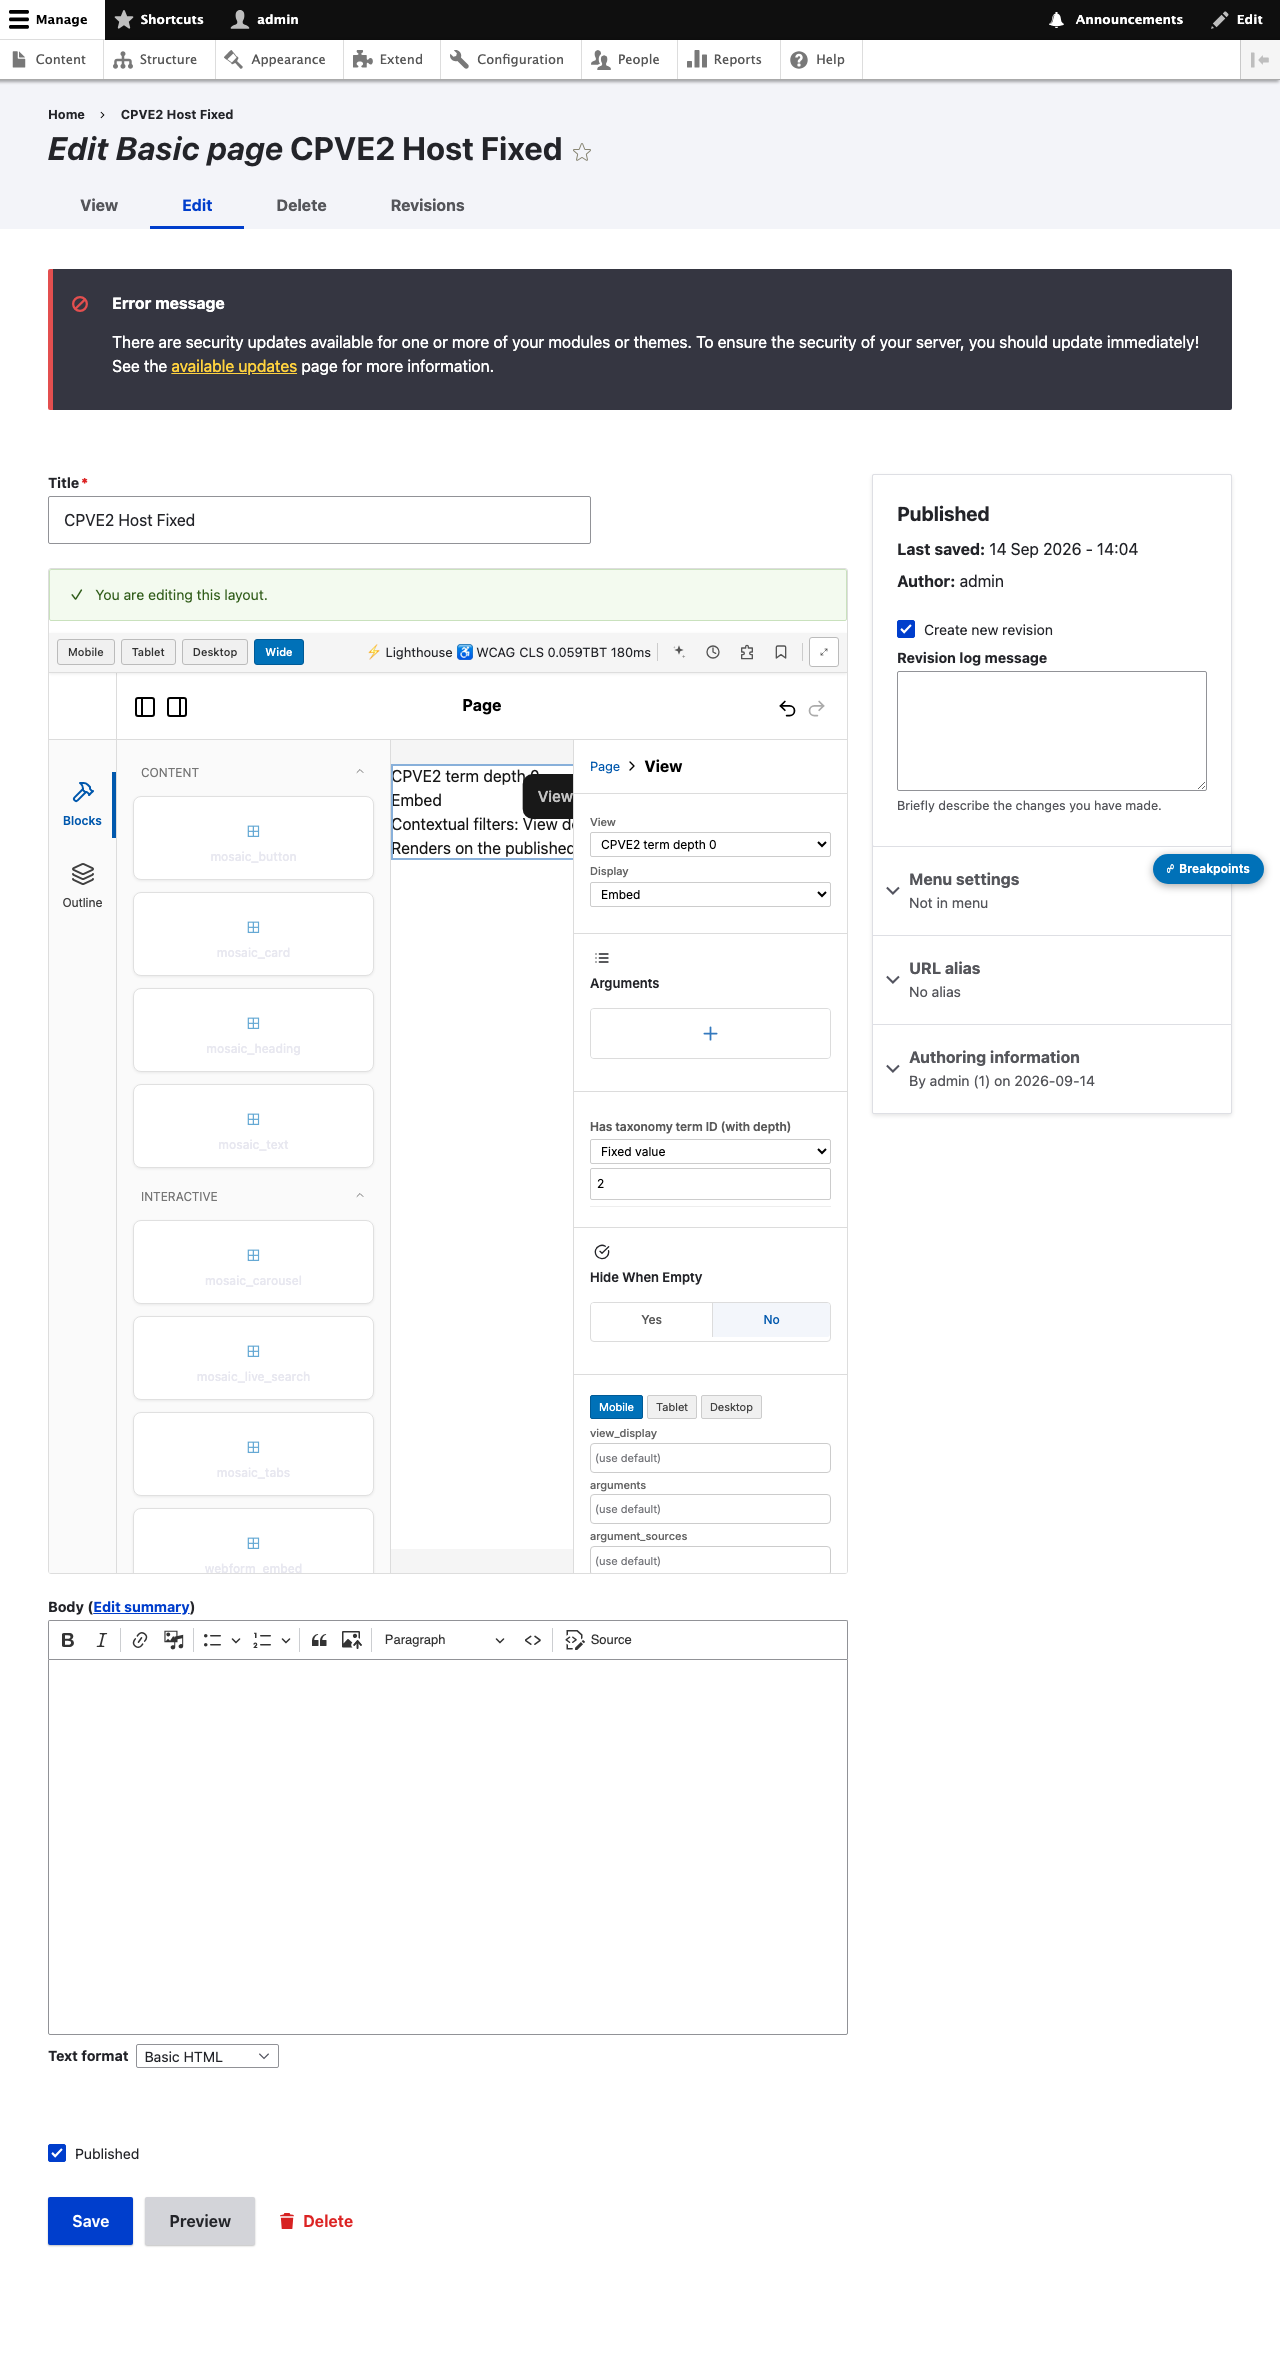
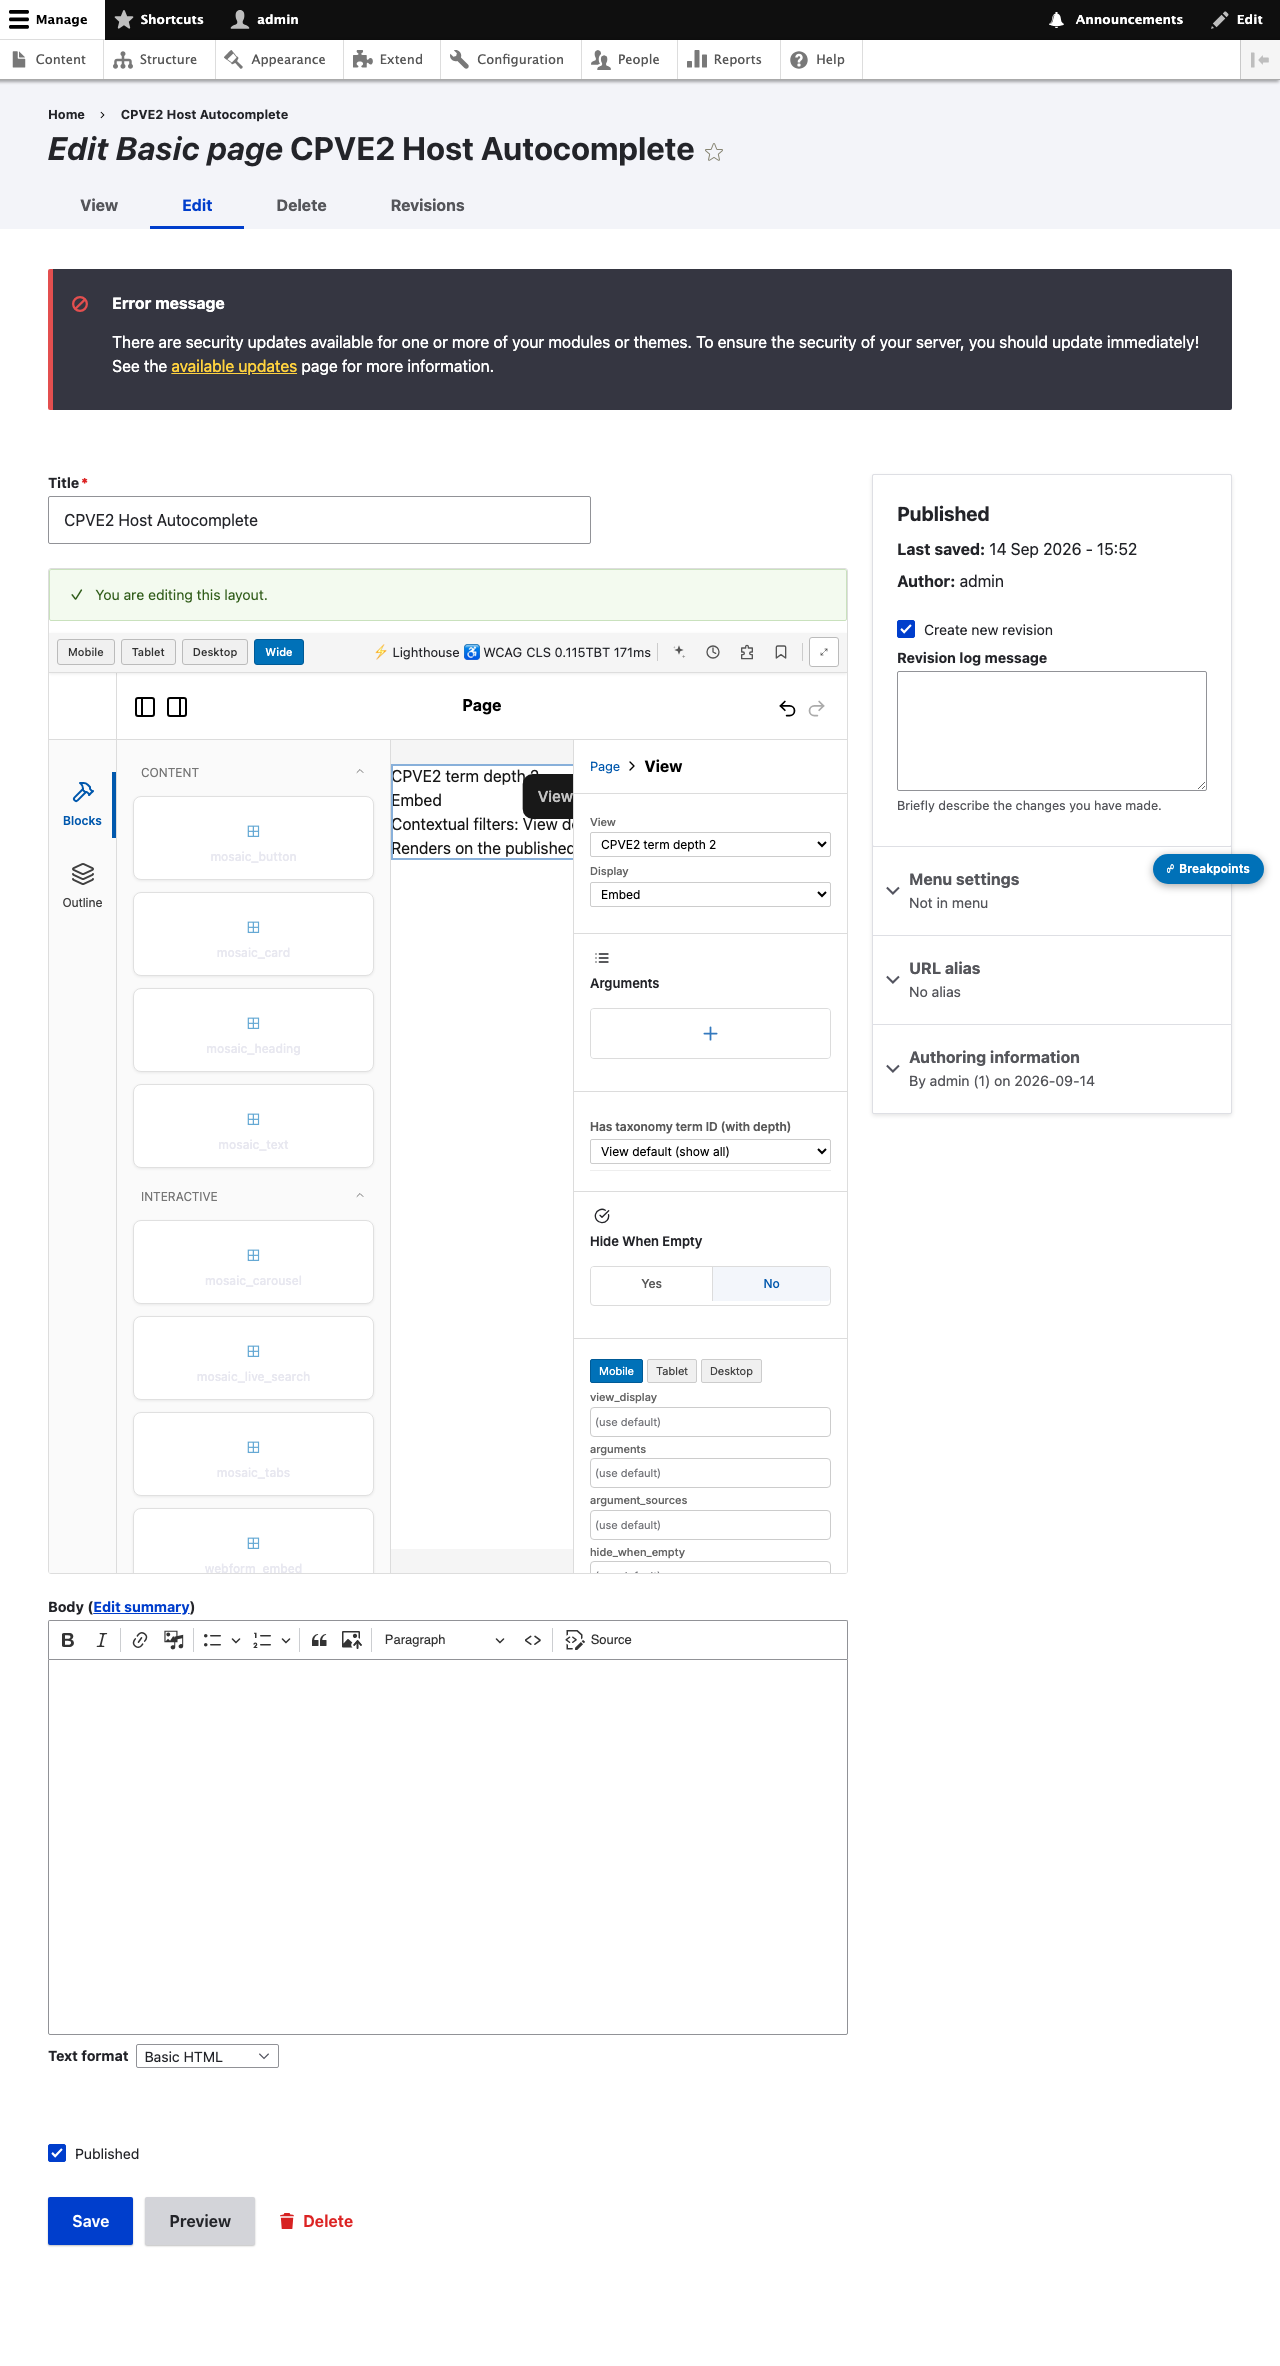
WALK-CATCH #57 FIXED: autocomplete keystroke-drop (debounce+abort isolation)
W1 witness (live render-count): usePuck panel re-rendered 24x/load + froze; per-key
un-debounced fetch. W2 fix: EntityAutocomplete local state + debounced (~280ms) abortable
lookup + commit only on pick. W3 RED->GREEN: Vitest 10/10 (fast type -> full string, 1
debounced fetch, no commit until pick) + e2e frame 02 real-pointer 'Citrus' (no dropped
keys). Witness-scan ledgered (url_param per-key commit, usePuck storm). Film 8/8, Vitest
517/1-preexisting, tsc clean. Add-block delta: none (33). STOP for reviewer frame audit.

Changed region(s): [[0.4375, 0.4937, 0.5938, 0.6788], [0.375, 0.0617, 0.5312, 0.0926], [0.3438, 0.2468, 0.375, 0.2777]]

diff --git a/reports/REPORT-CP-VE2.md b/reports/REPORT-CP-VE2.md
@@ -312,6 +312,66 @@ param-swap · 06 depth · 07 exclude) carry PASSING geometry oracles; 05a/05b cu
 `reports/WALK-CP-VE2.md` — 10 steps with exact nodes + exact expects (5 runtime geometry steps
 on hosts 977–981, 5 authoring-panel steps), each backed by a film frame.
 
+---
+
+# WALK-CATCH #57 — fixed-value autocomplete drops keystrokes (PROBE → FIX)
+
+Arun's walk: steps 1–6 + 8 PASS (step 6 label = Views' own handler title, ACT-2 polish ledgered;
+step 4 CPVE2-linked rows EXPECTED); steps 9–10 NOT RUN (reviewer re-issuing). **#57 (tally → 57):**
+the fixed-value entity autocomplete drops keystrokes ("cit" fast → "ct"), the right panel freezes,
+one key at a time. Ship #37 FROZEN; the fix accumulates in the uncommitted set.
+
+## W1 — WITNESS (live, render-count evidence — not theory)
+Instrumented `EntityAutocomplete` (render/mount/unmount/fetch) + `MosaicViewsArgumentsPanel` (render),
+rebuilt the builder, drove host 977's builder e2e:
+```
+» [WC57][Panel render]   ×24     (just LOAD + selecting the source — no typing yet)
+WC57 evaluate err: page.evaluate: Target page ... has been closed   (0 keystrokes landed)
+EA renders=0 mounts=0 fetches=0   (page froze before the autocomplete could be typed into)
+```
+Mechanism (witnessed): `MosaicViewsArgumentsPanel` calls `usePuck()`, which subscribes to the FULL
+Puck state, so the panel re-renders **24×** across a single load+select — a render storm — and the
+frame freezes on interaction. Compounding it, `EntityAutocomplete`'s lookup fired a network fetch on
+EVERY keystroke (code-confirmed: `useEffect([term])` with no debounce/abort). Under fast typing the
+per-key fetch + re-render load makes the controlled input drop characters.
+
+## W2 — FIX (isolation contract, autocomplete family)
+`EntityAutocomplete` (`js/src/builder/fields/MosaicViewsArgumentsField.tsx`): typing updates ONLY
+local `term` state (no Puck commit → no panel/canvas re-render while typing; commit happens on pick).
+The lookup is now **debounced** (~280 ms after typing pauses) and **abortable** (`AbortController` —
+each keystroke aborts the in-flight request), so fast typing fires ONE fetch, not one per key, and the
+input never drops characters.
+
+### Witness-scan of sibling per-key-commit inputs (LEDGERED, not fixed this charter)
+- `url_param` text input — `value={spec.param}` + `onChange → onPatch → Puck commit` on EVERY
+  keystroke (a controlled-input-bound-to-Puck anti-pattern; same freeze class). → ledgered.
+- `MosaicViewsArgumentsPanel` `usePuck()` render storm (24 renders/load) — a Panel-level perf issue
+  independent of the autocomplete. → ledgered.
+- `page_field` is a `<select>` (commit on choose, not per-key) — fine.
+
+## W3 — RED → GREEN
+**Vitest** (`viewsFields.test.tsx`, 10/10): fast per-key typing "c"→"ci"→"cit" → the input reads the
+FULL "cit"; `expect(entityAutocompleteFetches).toBe(0)` immediately (debounce pending — the RED
+assertion; pre-fix fired 3 per-key fetches) → exactly **1** debounced fetch after the pause; **no Puck
+commit** while typing; picking a suggestion commits exactly once.
+**e2e** (cp-ve2 film, frame 02): real-pointer `pressSequentially('Citrus', {delay:50})` on the live
+builder → `inputValue === 'Citrus'` (no dropped keys), suggestion appears, panel stays interactive —
+frame `02-fixed-autocomplete.png` finally earns its place in the album.
+
+## W4 — Gates + add-block delta
+| Gate | Result |
+|---|---|
+| Vitest — panel | **10/10** (WC57 debounce cell added) |
+| Vitest — full suite | **517 / 1** (the 1 is pre-existing B-101) |
+| tsc — my file | clean (only pre-existing `dsdShadow.ts`) |
+| e2e — cp-ve2 film | **8/8** (frame 02 now real-pointer fast-typed; all geometry oracles green) |
+| dist | builder rebuilt (FE unaffected — the fix is builder-only); instrumentation removed |
+
+**SHIP-37 add-block delta: NONE.** The WC57 fix modified only files ALREADY in the consolidated add
+block — `js/src/builder/fields/MosaicViewsArgumentsField.tsx`, `.../__tests__/viewsFields.test.tsx`,
+`js/dist/builder.js`. No new tracked files. The film spec (`js/e2e/`) is gitignored; the scratch
+host 982 + the `cpve2_termd2` entity-validator are dev-site content only. Ship #37 count stays **33**.
+
 ## Gates (N leg)
 | Gate | Result |
 |---|---|

diff --git a/ledger-live/TODO.md b/ledger-live/TODO.md
@@ -12564,3 +12564,40 @@ blast radius 2 renderer Unit tests re-oracled. N3 walk list reports/WALK-CP-VE2.
 Vitest 516/1-preexisting-B101, film 8/8 green, PHPStan (new) clean, PHPCS 0. **STOP — reviewer audits
 frames, Arun walks representatives (WALK-CP-VE2), ceremony. NOT a tag** (road: CP-VE3 → ACT 2 → Wave
 D-0+D/F → Wave G → dev push → Arun soak → tag). Uncommitted on ship #36 (44a09c8), read-only mosaic git.
+
+### ARUN WALK (2026-09-14) — CP-VE2 representatives (verbatim)
+Steps 1-6 + 8 PASS. Step 6 = PASS (argument label is Views' own handler title) — POLISH CANDIDATE
+ledgered for ACT 2: friendlier fallback when no custom admin label. Step 4 linked CPVE2-prefixed rows
+ruled EXPECTED. Steps 9-10 NOT RUN (walk-step clarity — reviewer re-issuing rewritten 9-10).
+**WALK-CATCH #57 FAIL (tally → 57):** fixed-value entity autocomplete DROPS KEYSTROKES ("cit" typed
+fast → "ct"), right panel FREEZES, one key at a time — the whole mosaic frame appears to re-render per
+keystroke. Ship #37 FROZEN; fix accumulates in the uncommitted set. Charter W1 witness → W2 isolation-
+contract fix (local state + debounced abortable fetch + Puck commit only on pick + zero re-render while
+typing) → W3 RED→GREEN (Vitest fast-typing + e2e real-pointer, film frame 02) → W4 gates + dist + album
++ add-block delta + push. STOP after push.
+
+### ACT 2 POLISH CANDIDATE (ledgered, not this charter) — argument label fallback
+Step-6 ruling: the argument-source row label falls back to Views' own handler admin title when no
+custom admin label is set. Friendlier fallback (e.g. humanized field name) is an ACT 2 polish item.
+
+### WALK-CATCH #57 FIXED 2026-09-14 — report: reports/REPORT-CP-VE2.md (WC57 section), album cp-ve2 frame 02
+W1 WITNESS (live, render-count): MosaicViewsArgumentsPanel (usePuck) re-rendered **24×** on a single
+load+select (render storm) + page froze on interaction; EntityAutocomplete fetched per-keystroke (no
+debounce). W2 FIX (js/src/builder/fields/MosaicViewsArgumentsField.tsx): EntityAutocomplete typing =
+LOCAL term state only (no Puck commit while typing → no panel re-render; commit on pick), lookup
+DEBOUNCED ~280ms + ABORTABLE (AbortController aborts stale). W3 RED→GREEN: Vitest viewsFields 10/10
+(fast type → full "cit" + 0 fetches while typing [RED pre-fix=3] + 1 debounced + no commit until pick);
+e2e real-pointer pressSequentially('Citrus',50ms) → inputValue=='Citrus', panel interactive, frame 02
+captured. dist rebuilt (builder). WITNESS-SCAN LEDGERED (fix only autocomplete family this charter):
+(a) url_param text input commits to Puck per-keystroke (value bound to spec.param → onPatch) — same
+freeze class, LEDGER; (b) usePuck panel render-storm (24 renders/load) — Panel perf, LEDGER; (c)
+page_field is a <select> (commit on choose) — fine.
+
+### GOTCHA (film content safety) — the builder PERSISTS panel edits
+Filming builder interactions on a GEOMETRY host corrupts it: the film's selectOption/typing on 977's
+source dropdown left node 977 argument_sources=[{view_default}] (→ 50 unfiltered rows, broke frame 03).
+Fix: film the autocomplete on a DEDICATED THROWAWAY host (982) whose argument_sources mutation is
+harmless; never type into hosts 977–981 (the geometry/walk hosts). Also: an entity:taxonomy_term
+validator on the taxonomy_index_tid_depth argument enables the panel autocomplete (introspection reads
+entity_type from the validator) — kept on cpve2_termd2 (979 depth + 982 autocomplete), NOT on
+cpve2_termd0 (977, exact depth-0).

diff --git a/ledger-live/e2e-evidence/cp-ve2/INDEX.md b/ledger-live/e2e-evidence/cp-ve2/INDEX.md
@@ -14,17 +14,15 @@ Meyer(974)=Lemon, Blueberry(975)=Berry, Wild Straw(976)=Straw. Host pages embed 
 | `07-exclude-this-page.png` | /node/981 — this_page + native `not` (Exclude) | host's own row **absent**; other CPVE2 pages present |
 | `05a-currentuser-admin.png` | /node/980 — current_user source, logged-in | admin (uid 1) sees the authored page rows |
 | `05b-currentuser-anon.png` | /node/980 — current_user source, anonymous | anon (uid 0) sees **empty** (delta by viewer) |
-| `01-panel-source-dropdown.png` | builder /node/977 — the source dropdown | six sources; View-default reads "View default (show all)" (F-105) |
+| `01-panel-source-dropdown.png` | builder — the source dropdown | six sources; View-default reads "View default (show all)" (F-105) |
+| `02-fixed-autocomplete.png` | builder (throwaway host 982) — fixed → entity autocomplete | REAL-POINTER fast-typed "Citrus" (50ms/key) → inputValue=="Citrus" (WC57 fix: no dropped keys) |
 | `08-n1-exclude-help.png` | builder /node/981 — this_page on a nid arg (N1) | help: "To exclude this page, enable 'Exclude' …" |
-
-*(The fixed-value entity autocomplete — a would-be frame 02 — is a flaky live builder
-interaction and is NOT filmed; its behaviour is proven by Vitest: viewsFields "type → Citrus
-suggestion → pick".)*
 
 Spec: `js/e2e/journeys/cp-ve2-film.spec.ts` (project `journeys`, admin storageState).
 The published-page frames (03/04/06/07) carry PASSING geometry oracles; 05 is a viewer
-delta (admin 50 rows vs anon 0 via clearCookies, also confirmed by curl); the builder frames
-(01/08) are visual evidence of behaviour independently proven by Vitest (viewsFields 9/9).
+delta (admin 50 rows vs anon 0 via clearCookies, also confirmed by curl); frame 02 asserts the
+fast-typed input holds the full string (WALK-CATCH #57 fix). Builder frames are filmed on the
+THROWAWAY host 982 (the builder persists panel edits — geometry hosts 977–981 are never typed into).
 
 ## Two real bugs this film caught (both fixed + regression-tested)
 1. **buildRenderable ignored the resolved argument.** `renderView()` set the resolved
